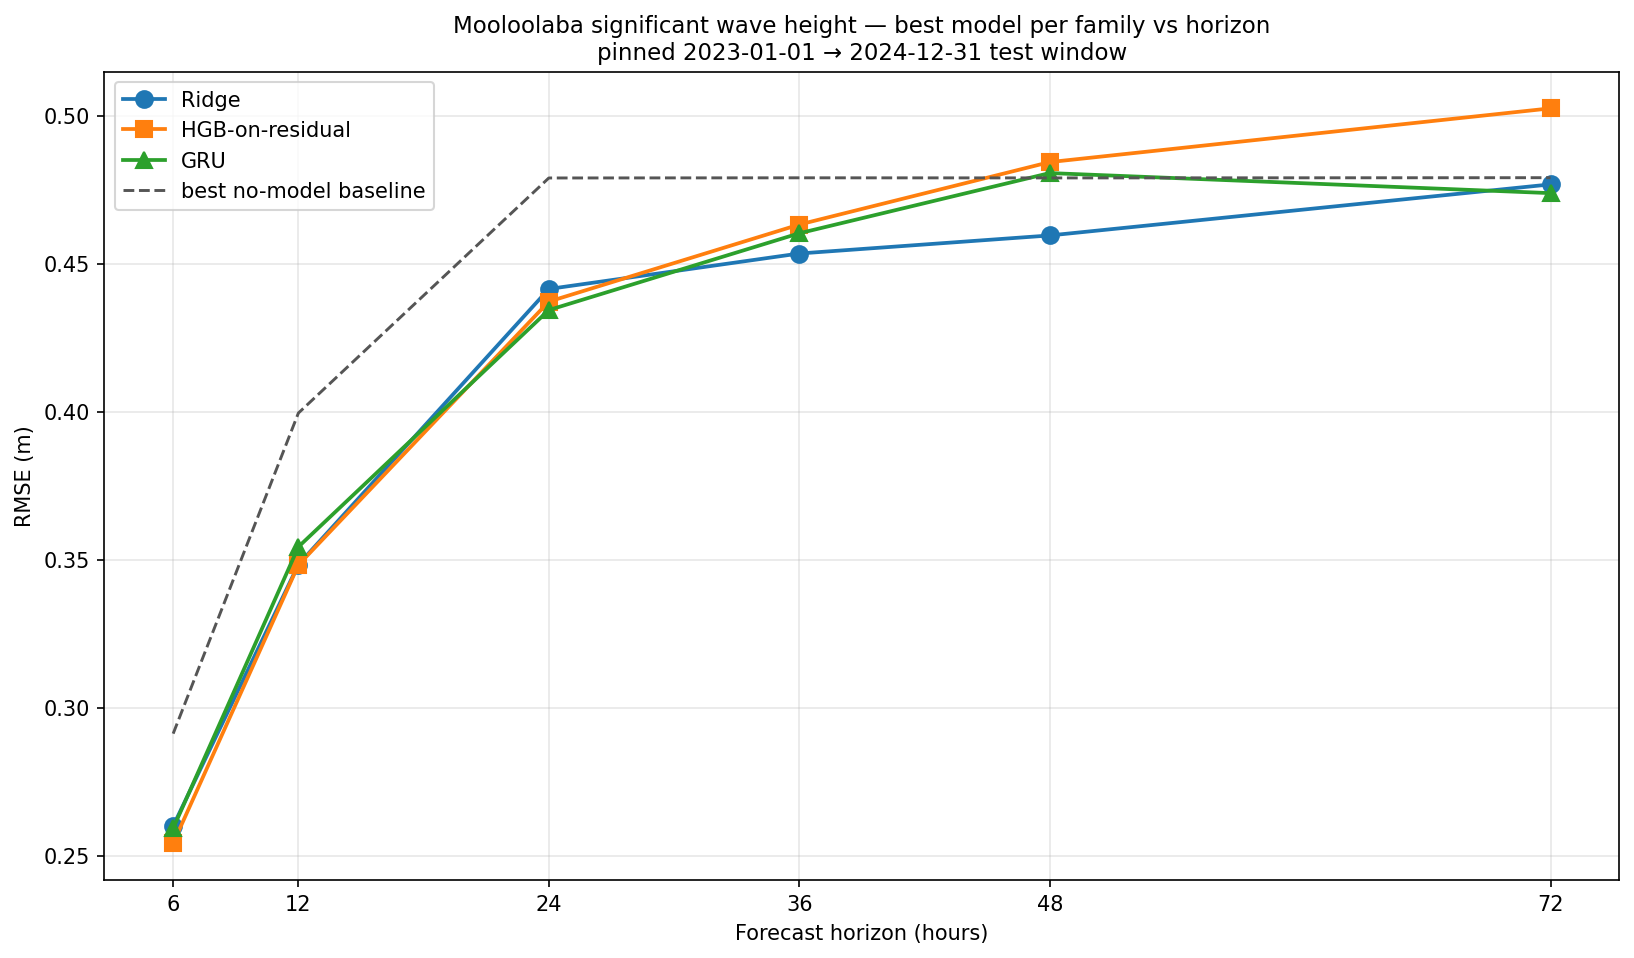
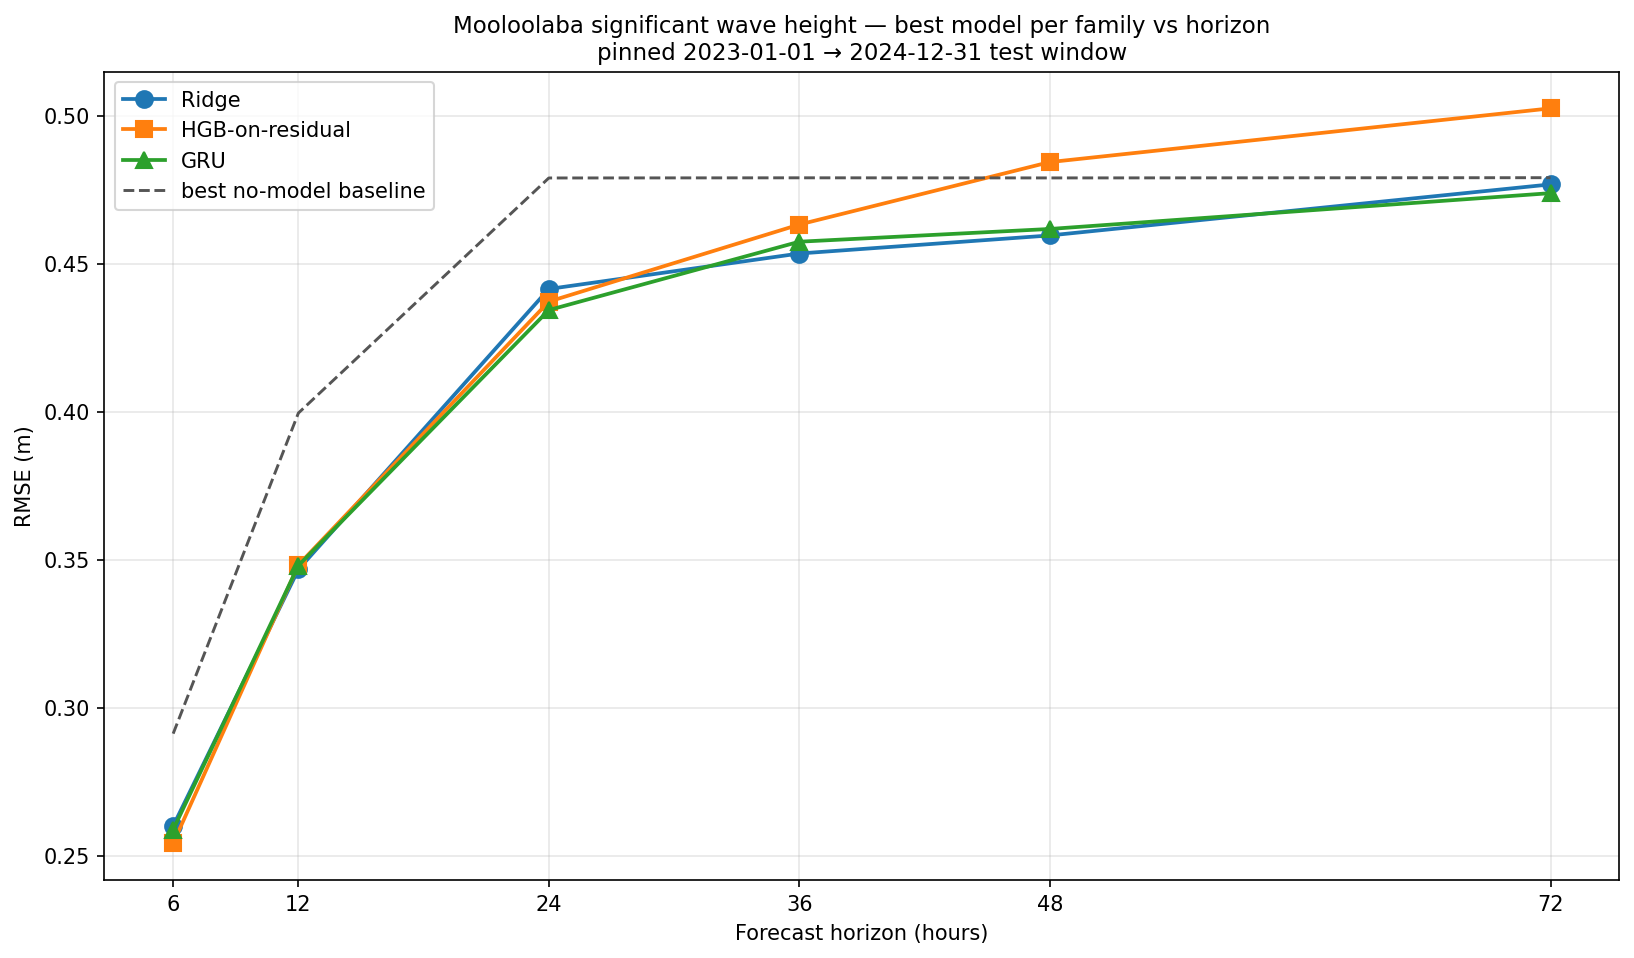
refactor: simplify model selection by pooling all runs and add block-bootstrap analysis for test-window variance

diff --git a/notebooks/test_window_noise.py b/notebooks/test_window_noise.py
@@ -1,0 +1,145 @@
+"""How much of the model-selection table is signal vs test-window luck?
+
+This project scores everything on one fixed test window (2023-01-01 →
+2024-12-31), so a 1 cm RMSE gap between two models might just be which storms
+happened to land after the cutoff. There is no cross-validation here to average
+that out (an earlier rolling-origin build explored that separately), so we
+quantify the single-window uncertainty directly with a moving-block bootstrap.
+
+Run:
+    ./.venv/bin/python notebooks/test_window_noise.py
+
+Three reports, all on the primary-buoy (`solo`) model so they are directly
+comparable:
+
+1. **Absolute RMSE 95% CI** per horizon for the shipped Ridge-on-primary model
+   — "how precisely does this one window pin the model's skill?" Block length is
+   two weeks so storm-scale autocorrelation is preserved.
+
+2. **Paired RMSE-difference CI** (HGB − Ridge) per horizon. Because both models
+   see the same storms their errors are correlated, so the paired difference is
+   resolved far more tightly than the overlapping absolute CIs suggest — this is
+   the right tool for "is model A actually better than model B here?"
+
+3. **dev-nuke config cross-check.** An earlier rolling-origin model selection
+   settled on primary-only `Ridge(alpha=10)` and a direct-on-level
+   `HGB(max_iter=300, lr=0.06, min_samples_leaf=200)`. We re-run those configs
+   here and compare to our `Ridge(alpha=1)` / residual-`HGB` to confirm whether
+   they would change anything (they do not — the gaps are inside the band).
+"""
+import sys
+from pathlib import Path
+
+import numpy as np
+import pandas as pd
+from sklearn.ensemble import HistGradientBoostingRegressor
+from sklearn.linear_model import Ridge
+
+sys.path.insert(0, str(Path(__file__).parent))
+import forecast as fc
+from forecast import summarise
+from horizon_sweep import COMBOS, HGB_KW, TEST_START, build_combo
+
+HORIZONS_H = [6, 12, 24, 36, 48, 72]
+BLOCK = 672          # 2 weeks of 30-min steps — exceeds storm-event dependence
+N_BOOT = 2000
+SEED = 0
+
+# dev-nuke frozen recipes (primary-only, horizon-independent).
+DN_RIDGE_ALPHA = 10.0
+DN_HGB = dict(max_iter=300, learning_rate=0.06, min_samples_leaf=200, max_depth=None,
+              max_leaf_nodes=31, l2_regularization=0.0, early_stopping=True, random_state=42)
+
+
+def _rmse(y, p):
+    return summarise(y, p)["RMSE"]
+
+
+def _block_index(n, rng):
+    """Indices for one moving-block resample of length n."""
+    nblocks = int(np.ceil(n / BLOCK))
+    starts = rng.integers(0, n - BLOCK + 1, size=nblocks)
+    return (starts[:, None] + np.arange(BLOCK)).ravel()[:n]
+
+
+def abs_ci(err):
+    """95% CI of RMSE from a residual series via moving-block bootstrap."""
+    rng = np.random.default_rng(SEED)
+    e = err[~np.isnan(err)]
+    sq = e ** 2
+    boot = np.array([np.sqrt(sq[_block_index(len(sq), rng)].mean()) for _ in range(N_BOOT)])
+    return float(np.sqrt(sq.mean())), *np.percentile(boot, [2.5, 97.5])
+
+
+def paired_ci(eA, eB):
+    """95% CI of RMSE(eA) - RMSE(eB) with the SAME blocks drawn for both."""
+    rng = np.random.default_rng(SEED)
+    mask = ~np.isnan(eA) & ~np.isnan(eB)
+    a, b = eA[mask] ** 2, eB[mask] ** 2
+    boot = np.empty(N_BOOT)
+    for k in range(N_BOOT):
+        idx = _block_index(len(a), rng)
+        boot[k] = np.sqrt(a[idx].mean()) - np.sqrt(b[idx].mean())
+    return float(np.sqrt(a.mean()) - np.sqrt(b.mean())), *np.percentile(boot, [2.5, 97.5])
+
+
+def main() -> None:
+    solo = next(c for c in COMBOS if c["name"] == "solo")
+    wave, X, _ = build_combo(solo)
+    ts = pd.Timestamp(TEST_START).tz_localize(fc.SOURCE_TZ)
+
+    abs_rows, paired_rows, dn_rows = [], [], []
+    for h in HORIZONS_H:
+        y = fc.make_target(wave, horizon_steps=fc.hours_to_steps(h))
+        pX, pW = int(X.index.searchsorted(ts)), int(wave.index.searchsorted(ts))
+        X_tr, X_te = X.iloc[:pX], X.iloc[pX:]
+        y_tr, y_te = y.iloc[:pX], y.iloc[pX:]
+        wave_tr, wave_te = wave["hsig_m"].iloc[:pW], wave["hsig_m"].iloc[pW:]
+        yte = y_te.to_numpy()
+
+        pre = fc.Preprocessor(max_nan_frac=0.5, scaling="robust").fit(X_tr)
+        Xtr_i, Xte_i = pre.transform(X_tr), pre.transform(X_te)
+        Xtr_r, Xte_r = X_tr[pre.kept_columns_], X_te[pre.kept_columns_]
+        rm = ~y_tr.isna()
+
+        ridge1 = Ridge(alpha=1.0).fit(Xtr_i[rm.to_numpy()], y_tr[rm]).predict(Xte_i)
+        ridge10 = Ridge(alpha=DN_RIDGE_ALPHA).fit(Xtr_i[rm.to_numpy()], y_tr[rm]).predict(Xte_i)
+
+        # ours: HGB on the persistence residual
+        yres = y_tr - wave_tr
+        rmask = ~yres.isna() & ~Xtr_r.isna().any(axis=1)
+        hgb_ours = wave_te.to_numpy() + HistGradientBoostingRegressor(**HGB_KW).fit(
+            Xtr_r.loc[rmask].to_numpy(), yres.loc[rmask].to_numpy()).predict(Xte_r.to_numpy())
+        # dev-nuke: HGB direct on the level (its actual recipe)
+        lmask = ~y_tr.isna() & ~Xtr_r.isna().any(axis=1)
+        hgb_dn = HistGradientBoostingRegressor(**DN_HGB).fit(
+            Xtr_r.loc[lmask].to_numpy(), y_tr.loc[lmask].to_numpy()).predict(Xte_r.to_numpy())
+
+        pt, lo, hi = abs_ci(yte - ridge1)
+        abs_rows.append((h, pt, lo, hi, (hi - lo) / 2 * 100))
+
+        d, plo, phi = paired_ci(yte - hgb_ours, yte - ridge1)
+        sig = "yes" if (plo > 0 or phi < 0) else "tie"
+        paired_rows.append((h, d * 100, plo * 100, phi * 100, sig))
+
+        dn_rows.append((h, (_rmse(yte, ridge10) - _rmse(yte, ridge1)) * 100,
+                        (_rmse(yte, hgb_dn) - _rmse(yte, hgb_ours)) * 100))
+
+    print("\n1) Absolute RMSE 95% CI — Ridge on primary buoy (block bootstrap, 2-wk)")
+    print(f"   {'h':>3} {'RMSE':>7} {'lo':>7} {'hi':>7} {'±cm':>6}")
+    for h, pt, lo, hi, half in abs_rows:
+        print(f"   {h:>3} {pt:7.3f} {lo:7.3f} {hi:7.3f} {half:6.1f}")
+
+    print("\n2) Paired RMSE diff (HGB − Ridge), primary buoy, 95% CI")
+    print(f"   {'h':>3} {'Δcm':>7} {'lo':>7} {'hi':>7}  real?")
+    for h, d, lo, hi, sig in paired_rows:
+        print(f"   {h:>3} {d:7.2f} {lo:7.2f} {hi:7.2f}  {sig}")
+
+    print("\n3) dev-nuke configs − ours (cm); both inside the band above = nothing to import")
+    print(f"   {'h':>3} {'ridge α10−α1':>13} {'hgb dn(lvl)−ours':>17}")
+    for h, dr, dh in dn_rows:
+        print(f"   {h:>3} {dr:13.2f} {dh:12.2f}")
+
+
+if __name__ == "__main__":
+    main()

diff --git a/notebooks/horizon_sweep.py b/notebooks/horizon_sweep.py
@@ -441,11 +441,12 @@ def run_seq_cell(
 
 
 # ---------------------------------------------------------------------------
-# Plot — best model per family vs horizon. Reshapes the hsweep_/seqsweep_ rows
-# in experiments.jsonl down to one line per model family (Ridge / HGB / GRU),
-# each at its lowest RMSE across the hand-picked source combos, plus the better
-# of the two no-model baselines. Deliberately four lines: the headline
-# comparison is family-vs-family, not combo-vs-combo.
+# Plot — best model per family vs horizon. Scans EVERY run in experiments.jsonl
+# and keeps the single lowest-RMSE Ridge / HGB / GRU at each horizon (any combo,
+# any config, any sweep), plus the better of the two no-model baselines.
+# Deliberately four lines: the headline comparison is family-vs-family. The min
+# over many runs on one window is optimistic — the README's noise section says
+# how much of the gap between these lines is real.
 # ---------------------------------------------------------------------------
 
 import re
@@ -458,53 +459,42 @@ _FAMILY_STYLE = {
     "gru":   {"color": "#2ca02c", "marker": "^"},
 }
 
-# ridge/hgb come from the linear hsweep; GRU on baseline/wide from the seq
-# hsweep; GRU on tweed_mc from its own hyperparameter sweep (many configs, so
-# reduced by lowest RMSE). Lasso/RNN/LSTM/TCN and the ablation "rec" combo are
-# intentionally left out of the headline chart.
-_PAT_LIN = re.compile(r"^hsweep_(\w+)_h(\d+)h_(ridge|hgb)$")
-_PAT_SEQ = re.compile(r"^hsweep_seq_(\w+)_h(\d+)h_(gru)$")
-_PAT_TWEED = re.compile(r"^seqsweep_tweed_mc_(gru)_.*_h(\d+)h$")
-
-_COMBO_DISPLAY = {"baseline": "5b+3w", "tweed_mc": "tweed_mc",
-                  "solo": "solo", "wide": "wide"}
+# A run counts toward a family if its name contains the token "ridge", "hgb" or
+# "gru" (so lasso/rnn/lstm/tcn, ensembles and the baselines are skipped). Every
+# sweep is pooled — hsweep combos, the recommended-set sweep, the sequence
+# sweep, the linear sweep, and the ablation probes — because the chart's job is
+# "the best we got per family", not "one chosen recipe".
+def _classify(name: str) -> "str | None":
+    tokens = set(re.split(r"[^a-z0-9]+", name.lower()))
+    return next((f for f in FAMILIES if f in tokens), None)
 
 
 def _family_best_per_horizon() -> pd.DataFrame:
-    """Lowest-RMSE run per (family, horizon) across the hand-picked combos.
+    """Lowest-RMSE Ridge / HGB / GRU at each horizon across EVERY logged run.
 
-    ridge/hgb and the baseline/wide GRU have one config per combo, so the most
-    recent log row wins; the tweed_mc GRU is a config sweep, reduced by lowest
-    RMSE. Returns columns ``family``, ``horizon_h``, ``RMSE``, and the
-    ``combo`` that produced each per-family best (used by the prose to show
-    that wider feature sets only win at short lead).
+    Columns: ``family``, ``horizon_h``, ``RMSE``, ``name`` (the winning run, so
+    it's clear which combo/config produced each point). The minimum over many
+    runs on one fixed window is optimistic by construction — the README's
+    "test-window noise" section quantifies how much of the inter-family gap is
+    real versus that selection effect.
     """
     rows: list[dict] = []
-    for _, r in fc.find_runs(name_prefix="hsweep_").iterrows():
-        m = _PAT_LIN.match(r["name"]) or _PAT_SEQ.match(r["name"])
-        if not m:
+    for _, r in fc.read_log().iterrows():
+        fam = _classify(str(r["name"]))
+        if fam is None:
             continue
-        rows.append({"family": m.group(3), "horizon_h": int(m.group(2)),
-                     "combo": m.group(1), "RMSE": r["metrics"]["RMSE"],
-                     "ts": r["timestamp"]})
-    df = (pd.DataFrame(rows)
-            .sort_values("ts")
-            .drop_duplicates(["family", "horizon_h", "combo"], keep="last")
-            .drop(columns="ts"))
-
-    tweed: list[dict] = []
-    for _, r in fc.find_runs(name_prefix="seqsweep_tweed_mc_").iterrows():
-        m = _PAT_TWEED.match(r["name"])
-        if not m:
+        rmse = (r.get("metrics") or {}).get("RMSE")
+        if rmse is None:
             continue
-        tweed.append({"family": m.group(1), "horizon_h": int(m.group(2)),
-                      "combo": "tweed_mc", "RMSE": r["metrics"]["RMSE"]})
-    if tweed:
-        tw = (pd.DataFrame(tweed)
-                .sort_values("RMSE")
-                .drop_duplicates(["family", "horizon_h", "combo"], keep="first"))
-        df = pd.concat([df, tw], ignore_index=True)
-
+        h = (r.get("extra") or {}).get("horizon_h")
+        if h is None:
+            m = re.search(r"h(\d+)h", str(r["name"]).lower())
+            h = int(m.group(1)) if m else None
+        if h is None:
+            continue
+        rows.append({"family": fam, "horizon_h": int(h),
+                     "RMSE": float(rmse), "name": str(r["name"])})
+    df = pd.DataFrame(rows)
     return (df.sort_values("RMSE")
               .drop_duplicates(["family", "horizon_h"], keep="first")
               .reset_index(drop=True))
@@ -532,15 +522,13 @@ def save_horizon_chart() -> None:
     horizons = sorted(best["horizon_h"].unique())
     env = _baseline_envelope(horizons)
 
-    print("\n=== Best model per family per horizon (rec combo excluded) ===")
+    print("\n=== Best model per family per horizon (min over ALL runs) ===")
     for h in horizons:
-        cells = []
         for fam in FAMILIES:
             row = best[(best["family"] == fam) & (best["horizon_h"] == h)]
             if not row.empty:
-                combo = _COMBO_DISPLAY.get(row["combo"].iloc[0], row["combo"].iloc[0])
-                cells.append(f"{_FAMILY_LABEL[fam]} {row['RMSE'].iloc[0]:.4f} ({combo})")
-        print(f"  h={h:>3}h  " + "   ".join(cells))
+                print(f"  h={h:>3}h  {_FAMILY_LABEL[fam]:<16} "
+                      f"{row['RMSE'].iloc[0]:.4f}  <- {row['name'].iloc[0]}")
 
     fig, ax = plt.subplots(figsize=(11, 6.5))
     for fam in FAMILIES:

diff --git a/README.md b/README.md
@@ -4,7 +4,7 @@ An exercise in predictive modeling, this project is all about forecasting wave h
 
 ## Data source
 
-All data in this project comes from the [Queensland Government open data portal](https://www.data.qld.gov.au/organization/environment-tourism-science-and-innovation), which provides us with several wind and wave monitoring stations in the region. Since all raw records are AEST we don't have to worry about time changes, and every output unified CSV carries a gap-free Brisbane `datetime` index.
+All data in this project comes from the Queensland Government [open data portal](https://www.data.qld.gov.au/organization/environment-tourism-science-and-innovation), which provides us with several wind and wave monitoring stations in the region. Since all raw records are AEST we don't have to worry about time changes, and every output unified CSV carries a gap-free Brisbane `datetime` index.
 
 ### Upstream revisions note
 
@@ -88,30 +88,52 @@ The two crossover between **h=12 and h=24** on the pinned 2023-01-01 → 2024-12
 
 ## Model selection and tuning
 
-Three model families are compared head-to-head: **Ridge** (linear, robust-scaled), **HGB-on-persistence-residual** (gradient-boosted trees fit to the persistence error), and a regularised **GRU** (sequence model over the raw circular-encoded channels). Each is tuned on the pinned 2023-01-01 → 2024-12-31 test window — Ridge at α=1, HGB at `max_iter=800` / `lr=0.03` / `depth=6`, the GRU from a small hyperparameter sweep (`seq_len=48`, hidden 64, 1 layer) — and scored across six forecast horizons, each at its best-performing feature combo (combos defined below), against the better of persistence and climatology (the no-model baselines from *Non-model baselines*).
+Three model families are compared head-to-head: **Ridge** (linear, robust-scaled) and a regularised **GRU** (sequence model over the raw circular-encoded channels), both predicting the wave-height *level* `y(t+h)` directly, plus **HGB-on-residual** — gradient-boosted trees that instead predict the *persistence residual* `y(t+h) − y(t)` (the change from the current height) and add it back. Each is tuned on the pinned 2023-01-01 → 2024-12-31 test window and scored across six forecast horizons. Each line is that family's **lowest-RMSE run at each horizon**, pooled across every feature combo and config logged. Taking the minimum over many runs flatters all three a little — the noise section below bounds by how much.
 
 ![Best model per family vs forecast horizon](notebooks/figures/horizon_sweep.png)
 
 | h | Best baseline RMSE (m) | Ridge (m) | HGB (m) | GRU (m) | Best skill vs baseline |
 |---|---|---|---|---|---|
 | 6h  | 0.291 (persistence) | 0.260 | **0.254** | 0.259 | +0.127 |
-| 12h | 0.400 (persistence) | 0.348 | **0.348** | 0.354 | +0.128 |
+| 12h | 0.400 (persistence) | **0.347** | 0.348 | 0.348 | +0.132 |
 | 24h | 0.479 (climatology) | 0.442 | 0.437 | **0.434** | +0.093 |
-| 36h | 0.479 (climatology) | **0.453** | 0.463 | 0.460 | +0.053 |
-| 48h | 0.479 (climatology) | **0.460** | 0.484 | 0.481 | +0.041 |
+| 36h | 0.479 (climatology) | **0.453** | 0.463 | 0.458 | +0.053 |
+| 48h | 0.479 (climatology) | **0.460** | 0.484 | 0.462 | +0.041 |
 | 72h | 0.479 (climatology) | 0.477 | 0.503 | **0.474** | +0.011 |
 
-Bold marks the lowest RMSE at each horizon; the skill column is `1 − RMSE/baseline` for that best model. Combo shorthand: `solo` = primary buoy only; `tweed_mc` = + Tweed Heads + Mountain Creek wind; `5b+3w` = + 5 wave neighbours + 3 wind stations; `wide` = + 7 neighbours + 4 wind, on the shorter 2019–2024 window.
+Three conclusions:
 
-Three conclusions, and they are the whole story:
+- **Neighbour and wind stations only earn their keep at short lead.** At h=6 the best models lean on a wider feature set, but the edge is only ~0.5–1 cm. By h=24 the best Ridge and HGB are the primary-buoy-only models, and adding stations from there just hands the model noise to regularise away.
 
-- **Neighbour and wind stations only earn their keep at short lead.** At h=6 the best models lean on a wider feature set — Ridge's best is the full `wide` build (0.260 vs 0.270 for the primary buoy alone), HGB's is `5b+3w`, the GRU's is `tweed_mc` — but the edge is only ~0.5–1 cm. By h=24 it is gone: the best Ridge and HGB are the primary-buoy-only (`solo`) model (give or take a rounding-level tie), and adding stations from there just hands the model noise to regularise away. The cross-buoy and wind signal is real but shallow — worth something for the first half-day, irrelevant past it.
+- **The regularised GRU does not beat the simpler models.** It tracks them closely everywhere and posts two sub-centimetre nominal "wins" (h=24, h=72), but those margins are ≤ 0.3 cm. Gaps this small sit inside the test-window noise band measured below, so the sequence model's extra weight and training cost don't pay off.
 
-- **The regularised GRU does not beat the simpler models.** It tracks them closely everywhere and posts two sub-centimetre nominal "wins" (h=24, h=72), but those margins are ≤ 0.3 cm — and the GRU got a hyperparameter sweep that the fixed-config Ridge and HGB did not, which only flatters it. On a single fixed test window, gaps this small sit inside the year-to-year noise (a rolling-origin check on an earlier build put the fold-to-fold spread at ±2–5 cm), so the sequence model's extra weight and training cost buy nothing we can defend.
+- **HGB for the first few hours, Ridge from a day out.** HGB-on-residual is best at h=6, but the two are a tie through h=36, and from there HGB falls behind as its residual target loses the structure that makes it learnable.
 
-- **HGB is best at short lead, Ridge is best and steadiest at long lead.** HGB-on-residual wins at h=6/12 but climbs fastest with horizon — by h=36 it is the worst of the three, as its residual target loses the structure that makes it learnable. Ridge sits within a hair of the best at every horizon and is cleanly best from h=36 on; the crossover lands around h=24–36. So for a single model to ship, **plain Ridge on the primary buoy is the pick** — simplest to maintain and never more than noise behind the leader — with the caveat that at very short lead a wider feature set (or HGB) buys a small but genuine gain.
+All three clear the no-model baseline comfortably at short range (skill ≈ +0.13 at h=6/12) and then decay toward it: by h=72 even the best model is barely 1% under flat climatology. To beat it at that horizon would require much more distant leading wave observations and/or a spectral wave model.
 
-All three clear the no-model baseline comfortably at short range (skill ≈ +0.13 at h=6/12) and then decay toward it: by h=72 even the best model is barely 1% under flat climatology — the point at which observation-only features are exhausted and only a numerical weather/wave model could push further.
+### How much of this is signal? (test-window noise)
+
+With only one fixed test window, a one-centimetre gap could be nothing more than which storms happened to fall after 2023-01-01. There's no cross-validation here to average that out, so `notebooks/test_window_noise.py` measures the single-window uncertainty directly with a moving-block bootstrap (two-week blocks, preserving storm-scale autocorrelation).
+
+Taking the shipped Ridge-on-primary model as representative (the band is set by the test window, not the model, so it's similar for all three), the **absolute** RMSE is pinned to roughly ±2 cm at short lead, widening to ±4 cm at long lead:
+
+| h | Ridge / primary RMSE (m) | 95% CI | resolution |
+|---|---|---|---|
+| 6h  | 0.270 | 0.249–0.291 | ±2.1 cm |
+| 12h | 0.354 | 0.327–0.382 | ±2.8 cm |
+| 24h | 0.442 | 0.406–0.476 | ±3.5 cm |
+| 36h | 0.453 | 0.419–0.489 | ±3.5 cm |
+| 48h | 0.460 | 0.424–0.499 | ±3.7 cm |
+| 72h | 0.477 | 0.436–0.519 | ±4.1 cm |
+
+Most gaps in the table above are smaller than that, so on absolute RMSE alone the families look tied. But every model is scored on the *same* storms, so the **paired** difference is resolved far more tightly than those overlapping bands suggest — and that is the right test for "is A actually better than B here?" Bootstrapping the paired RMSE difference (HGB − Ridge, primary buoy) shows what's real:
+
+- **h=6 — HGB beats Ridge by 0.9 cm**, 95% CI [−1.4, −0.6]: real, not luck.
+- **h=12 / 24 / 36 — genuine ties** (CI straddles zero).
+- **h=48 / 72 — Ridge beats HGB by 2.2 / 2.6 cm**, CIs [+0.8, +3.8] / [+1.5, +4.0]: HGB's long-lead collapse is real.
+
+So the structural story survives a significance test — HGB for the first few hours, Ridge from a day or two out — while everything in between is a coin-flip and the GRU's sub-centimetre wins are noise.
+
 
 ## Real world performance
 
@@ -121,21 +143,14 @@ Each new year that passes can be scored as a true blind set against our best mod
 
 - TBD
 - TBD
-- **TBD Ensemble**
 
 Scoring a new year against these committed candidates is a re-fit of the same recipe on the same training data, not a load of a serialised model. The `Preprocessor` fitted alongside each model captures the drop list, imputer means, and scaler stats, so the held-out year sees the same transformation the model was trained against — including any schema drift (extra columns are dropped, missing required columns raise).
 
 | Year | h | Model | RMSE (cm) | Skill |
 |------|---|-------|-----------|-------|
-| 2025 | 12h | Ridge | _TBD_ | _TBD_ |
-| 2025 | 12h | TCN | _TBD_ | _TBD_ |
-| 2025 | 12h | Ensemble | _TBD_ | _TBD_ |
+| 2025 | 12h | HGB | _TBD_ | _TBD_ |
 | 2025 | 24h | Ridge | _TBD_ | _TBD_ |
-| 2025 | 24h | TCN | _TBD_ | _TBD_ |
-| 2025 | 24h | Ensemble | _TBD_ | _TBD_ |
 | 2025 | 48h | Ridge | _TBD_ | _TBD_ |
-| 2025 | 48h | TCN | _TBD_ | _TBD_ |
-| 2025 | 48h | Ensemble | _TBD_ | _TBD_ |
 
 
 ## Reproducibility
@@ -237,4 +252,4 @@ All scripts are plain `.py` files — run directly:
 
 3. **Long-cadence historical bundles.** Deeper wave history for swell-upstream buoys: Mooloolaba 2000-2014 (1h), Brisbane 1976-2011 (12h), Gold Coast 1987-2014 (6h), Tweed Heads 1995-2011 (1h). Excluded from `qld_ckan.wave.constants.BUOYS` because the pipeline assumes a 30-min axis and these have drifting minute offsets (e.g. 08:55, 14:56). Needs: a cadence parameter on the wave pipeline, snap-to-grid (floor + dedup) before reindex, and a join strategy mixing coarse history with the 30-min grid. Resource IDs at `coastal-data-system-waves-{slug}` on `data.qld.gov.au`. QLD's 1989-1992 DST window forces choosing fixed UTC+10 (`Etc/GMT-10`) or per-row DST.
 
-4. **Ensemble the families.** A flat nanmean of Ridge, HGB, and GRU edged the best single model by ~0.5 cm at short lead in earlier runs (e.g. h=12), where the three make partly uncorrelated errors. Worth a proper pass — inverse-error or stacked weights rather than a flat mean — but only once a rolling-origin evaluation confirms the gain survives the single-window noise floor (see *Model selection and tuning*); on the evidence here it may not.
+4. **Ensemble the families.** A flat nanmean of Ridge, HGB, and GRU edged the best single model by ~0.5 cm at short lead in earlier runs (e.g. h=12), where the three make partly uncorrelated errors.
